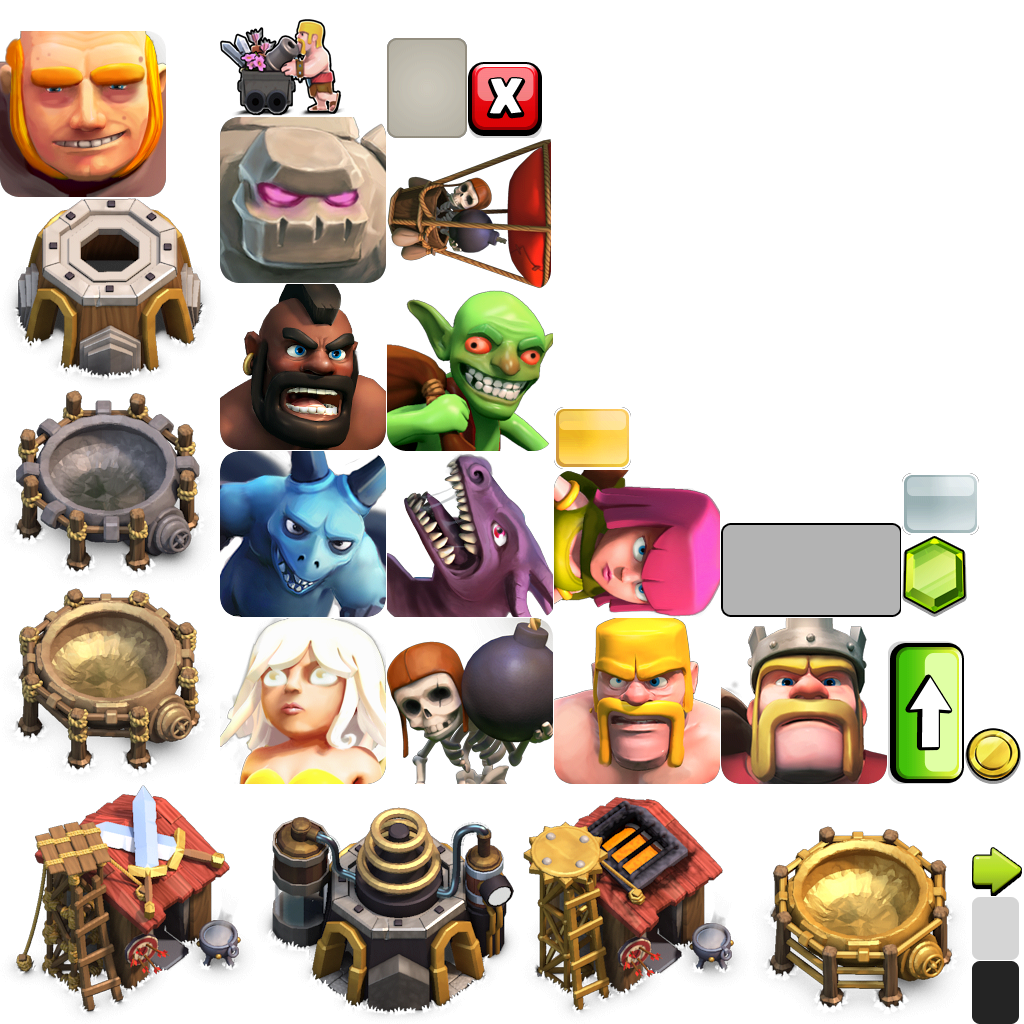
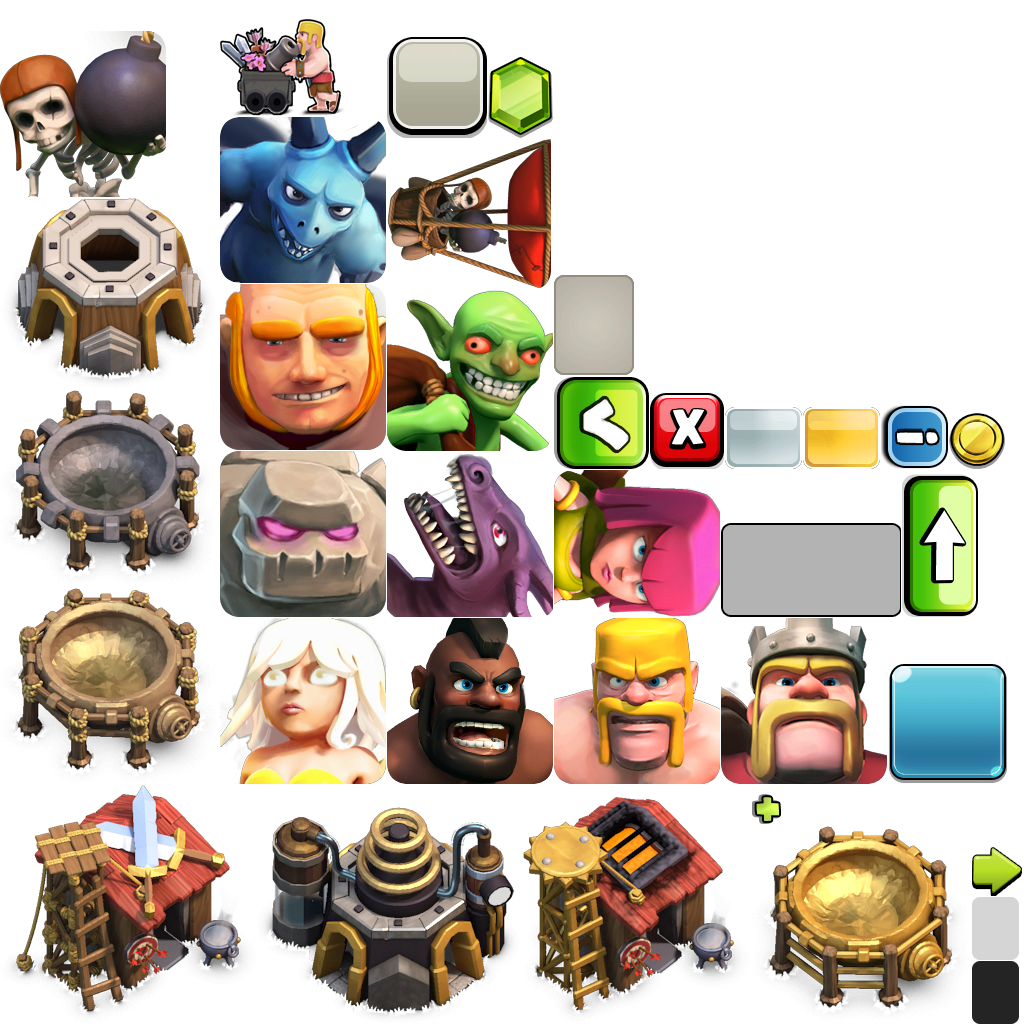
723下午

diff --git a/Assets/scripts/MainScreen.cs b/Assets/scripts/MainScreen.cs
@@ -1,11 +1,23 @@
 using UnityEngine;
 using System.Collections;
+using System.Collections.Generic;
 
 public class MainScreen : MonoBehaviour {
 
+	//记录兵营招募图片索引
+	public int iArmRecruitPicIndex = 0;
+
+	//兵营招募图片索引
+	public Dictionary<int, string>	m_dReArmPicIndex = new Dictionary<int, string> ();
 	// Use this for initialization
 	void Start () {
-	
+		m_dReArmPicIndex.Add (1, "1325.0");
+		m_dReArmPicIndex.Add (2, "1337.0");
+		m_dReArmPicIndex.Add (3, "1310.0");
+		m_dReArmPicIndex.Add (4, "1319.0");
+		m_dReArmPicIndex.Add (5, "1343.0");
+		m_dReArmPicIndex.Add (6, "1304.0");
+		m_dReArmPicIndex.Add (7, "1291.0");
 	}
 	
 	// Update is called once per frame
@@ -16,6 +28,11 @@ public class MainScreen : MonoBehaviour {
 	public void BuildShopClickEvent()
 	{
 		GameStart.goBuildView.SetActive (true);
+	}
+
+	public void RecruitArmCancel()
+	{
+		GameStart.goRecruitArm.SetActive (false);
 	}
 
 	//兵营招兵
@@ -31,36 +48,62 @@ public class MainScreen : MonoBehaviour {
 		{
 			spCamp.spriteName = "1325.0";
 			lbLabel.text = "123";
+			iArmRecruitPicIndex = 1;
 		}
 		else if (go.name == "ArcherCamp")
 		{
 			spCamp.spriteName = "1337.0";
 			lbLabel.text = "123";
+			iArmRecruitPicIndex = 2;
 		}
 		else if (go.name == "GriffinCamp")
 		{
 			spCamp.spriteName = "1310.0";
 			lbLabel.text = "123";
+			iArmRecruitPicIndex = 3;
 		}
 		else if (go.name == "SwordCamp")
 		{
 			spCamp.spriteName = "1319.0";
 			lbLabel.text = "123";
+			iArmRecruitPicIndex = 4;
 		}
 		else if (go.name == "FriarCamp")
 		{
 			spCamp.spriteName = "1343.0";
 			lbLabel.text = "123";
+			iArmRecruitPicIndex = 5;
 		}
 		else if (go.name == "KnightCamp")
 		{
 			spCamp.spriteName = "1304.0";
 			lbLabel.text = "123";
+			iArmRecruitPicIndex = 6;
 		}
 		else if (go.name == "ArcherCamp")
 		{
 			spCamp.spriteName = "1291.0";
 			lbLabel.text = "123";
+			iArmRecruitPicIndex = 7;
 		}
+	}
+
+	//切换招募兵种
+	public void RecruitArmSwitchClickEvent(GameObject go)
+	{
+		if (go.name == "Left")
+		{
+			iArmRecruitPicIndex -= 1;
+			if (iArmRecruitPicIndex <= 0) iArmRecruitPicIndex = 7;
+		}
+		else if (go.name == "Right")
+		{
+			iArmRecruitPicIndex += 1;
+			if (iArmRecruitPicIndex >= 8) iArmRecruitPicIndex = 1;
+		}
+
+		var trPic = GameStart.goRecruitArm.transform.Find ("RecruitArmBG/SoldierPic");
+		var spPic = trPic.GetComponent<UISprite> ();
+		spPic.spriteName = m_dReArmPicIndex [iArmRecruitPicIndex];
 	}
 }

diff --git a/Assets/scripts/GameStart.cs b/Assets/scripts/GameStart.cs
@@ -45,6 +45,8 @@ public class CUser
 	public Arm[] m_armInfo = new Arm[cGameDataDef.ArmOnBattleNum];
 	
 	private static CUser m_instance = null;
+
+
 	
 	public CUser()
 	{
@@ -55,6 +57,13 @@ public class CUser
 		m_dUserBuilds.Add (cGameDataDef.Temple, 0);
 		m_dUserBuilds.Add (cGameDataDef.TrainGround, 0);
 		m_dUserBuilds.Add (cGameDataDef.Heaven, 0);
+
+		for (int i = 0; i < cGameDataDef.ArmOnBattleNum; i++)
+		{
+			m_armInfo[i].iNum = 0;
+			m_armInfo[i].iStar = 0;
+			m_armInfo[i].iType = 0;
+		}
 	}
 	
 	public static CUser Instance()

diff --git a/Assets/scripts/BuildingViewPanel.cs b/Assets/scripts/BuildingViewPanel.cs
@@ -13,6 +13,11 @@ public class BuildingViewPanel : MonoBehaviour {
 	
 	}
 
+	public void BuildViewCancelClickEvent()
+	{
+		GameStart.goBuildView.SetActive (false);
+	}
+
 	public void BuildingOnBuildClickEvent(GameObject go)
 	{
 		Debug.Log ("aa" + go.name);
